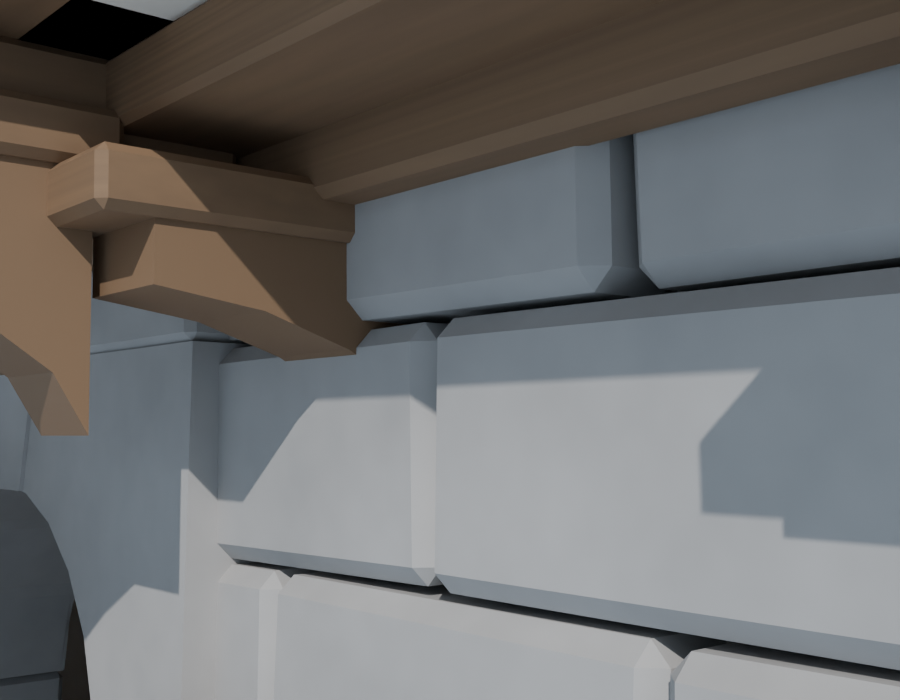
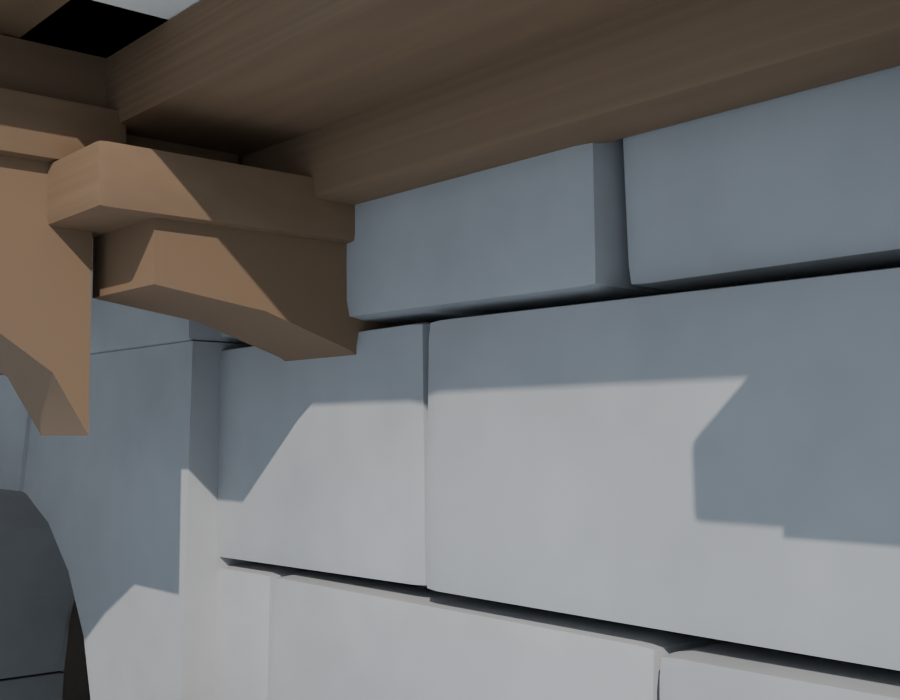
Add organic smooth-by-angle shading and rounder beveled edges for a softer, hand-carved look

diff --git a/blend_building_creator/generator/mesh_utils.py b/blend_building_creator/generator/mesh_utils.py
@@ -9,6 +9,27 @@ import math
 from mathutils import Vector, Matrix, Euler
 import random
 
+def apply_organic_shading(obj, angle_deg=42.0):
+    """
+    Smooths the finished building mesh by angle so bevels/cylinders read as soft and
+    rounded (organic hand-carved look) while sharp unbeveled corners stay crisp.
+    Uses the Blender 4.1+ 'Smooth by Angle' operator, with a flat shade_smooth fallback.
+    """
+    try:
+        prev_active = bpy.context.view_layer.objects.active
+        bpy.context.view_layer.objects.active = obj
+        was_selected = obj.select_get()
+        obj.select_set(True)
+        bpy.ops.object.shade_auto_smooth(angle=math.radians(angle_deg))
+        obj.select_set(was_selected)
+        bpy.context.view_layer.objects.active = prev_active
+    except Exception:
+        try:
+            for poly in obj.data.polygons:
+                poly.use_smooth = True
+        except Exception:
+            pass
+
 def create_box(bm, size=(1.0, 1.0, 1.0), location=(0.0, 0.0, 0.0), rotation=(0.0, 0.0, 0.0), mat_index=0):
     """
     Creates an oriented box in bmesh with center or base alignment.
@@ -108,8 +129,8 @@ def create_box(bm, size=(1.0, 1.0, 1.0), location=(0.0, 0.0, 0.0), rotation=(0.0
         
     return faces
 
-def create_beveled_box(bm, size=(1.0, 1.0, 1.0), location=(0.0, 0.0, 0.0), rotation=(0.0, 0.0, 0.0), mat_index=0, bevel_amount=0.03, bevel_segments=1):
-    """Creates a box and slightly chamfers/bevels its edges for a chunky stylized look."""
+def create_beveled_box(bm, size=(1.0, 1.0, 1.0), location=(0.0, 0.0, 0.0), rotation=(0.0, 0.0, 0.0), mat_index=0, bevel_amount=0.03, bevel_segments=2):
+    """Creates a box and softly rounds its edges for a chunky, hand-carved organic look."""
     faces = create_box(bm, size, location, rotation, mat_index)
     if bevel_amount > 0.001:
         edges = list({e for f in faces for e in f.edges})

diff --git a/blend_building_creator/generator/building.py b/blend_building_creator/generator/building.py
@@ -10,7 +10,7 @@ import bmesh
 import math
 import random
 from mathutils import Vector, Euler, Matrix
-from .mesh_utils import create_box, create_beveled_box, create_cylinder, create_cone, apply_box_uvs, add_wonkiness
+from .mesh_utils import create_box, create_beveled_box, create_cylinder, create_cone, apply_box_uvs, add_wonkiness, apply_organic_shading
 from .materials import (
     setup_building_material_slots,
     MAT_INDEX_STONE, MAT_INDEX_PLASTER_EXT, MAT_INDEX_PLASTER_INT,
@@ -306,6 +306,7 @@ def generate_building(obj, props):
         bm.to_mesh(obj.data)
         bm.free()
         obj.data.update()
+        apply_organic_shading(obj)
         try:
             from ..operators import get_props_dict
             import json
@@ -1626,6 +1627,7 @@ def generate_building(obj, props):
     bm.to_mesh(obj.data)
     bm.free()
     obj.data.update()
+    apply_organic_shading(obj)
     
     # Store settings dictionary on object for independent multi-building recall
     try:
